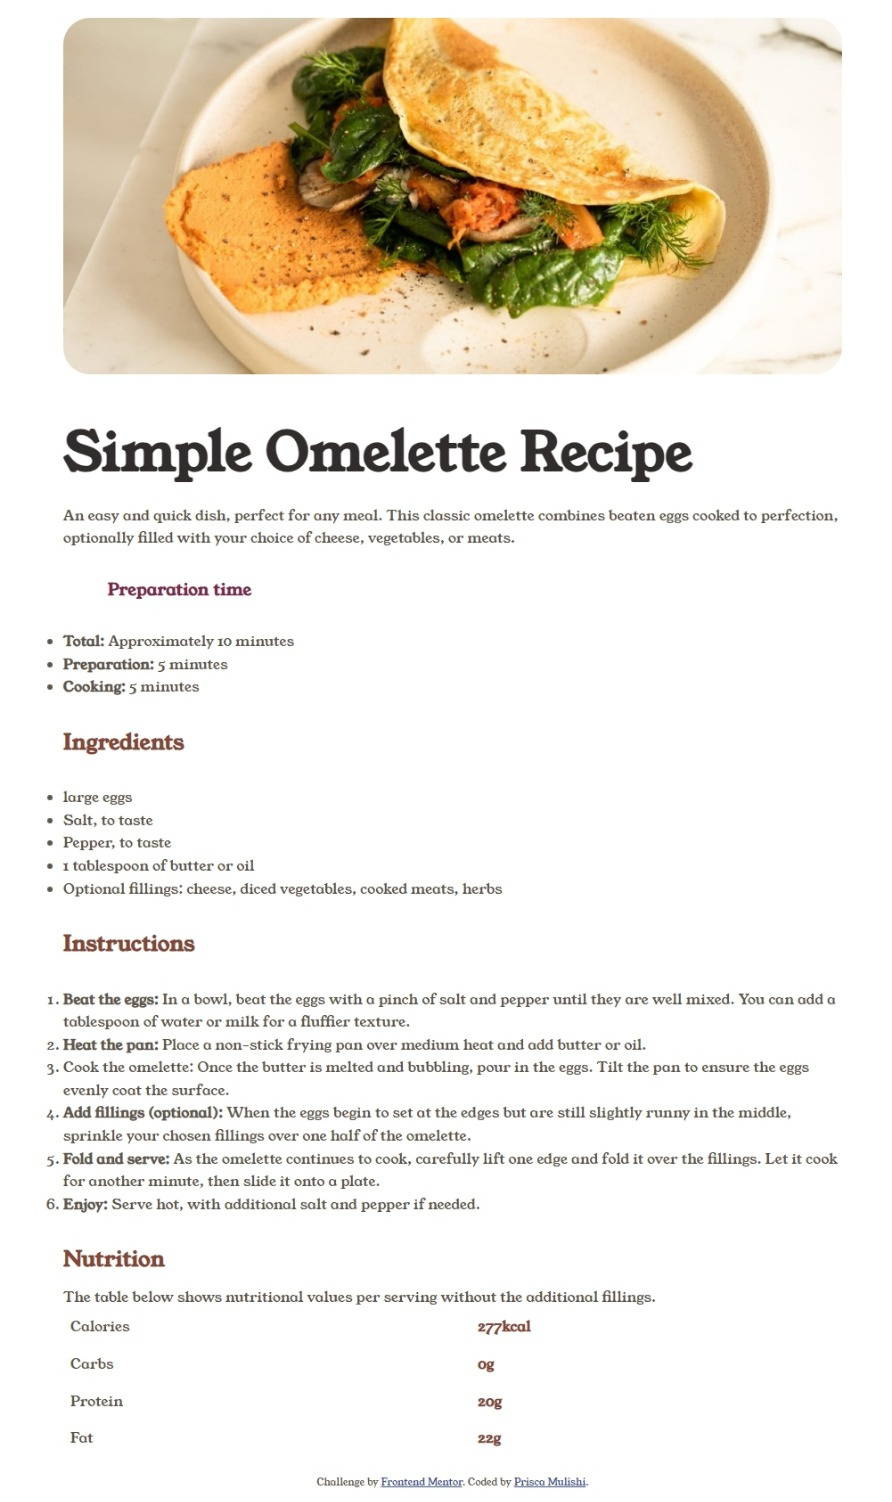
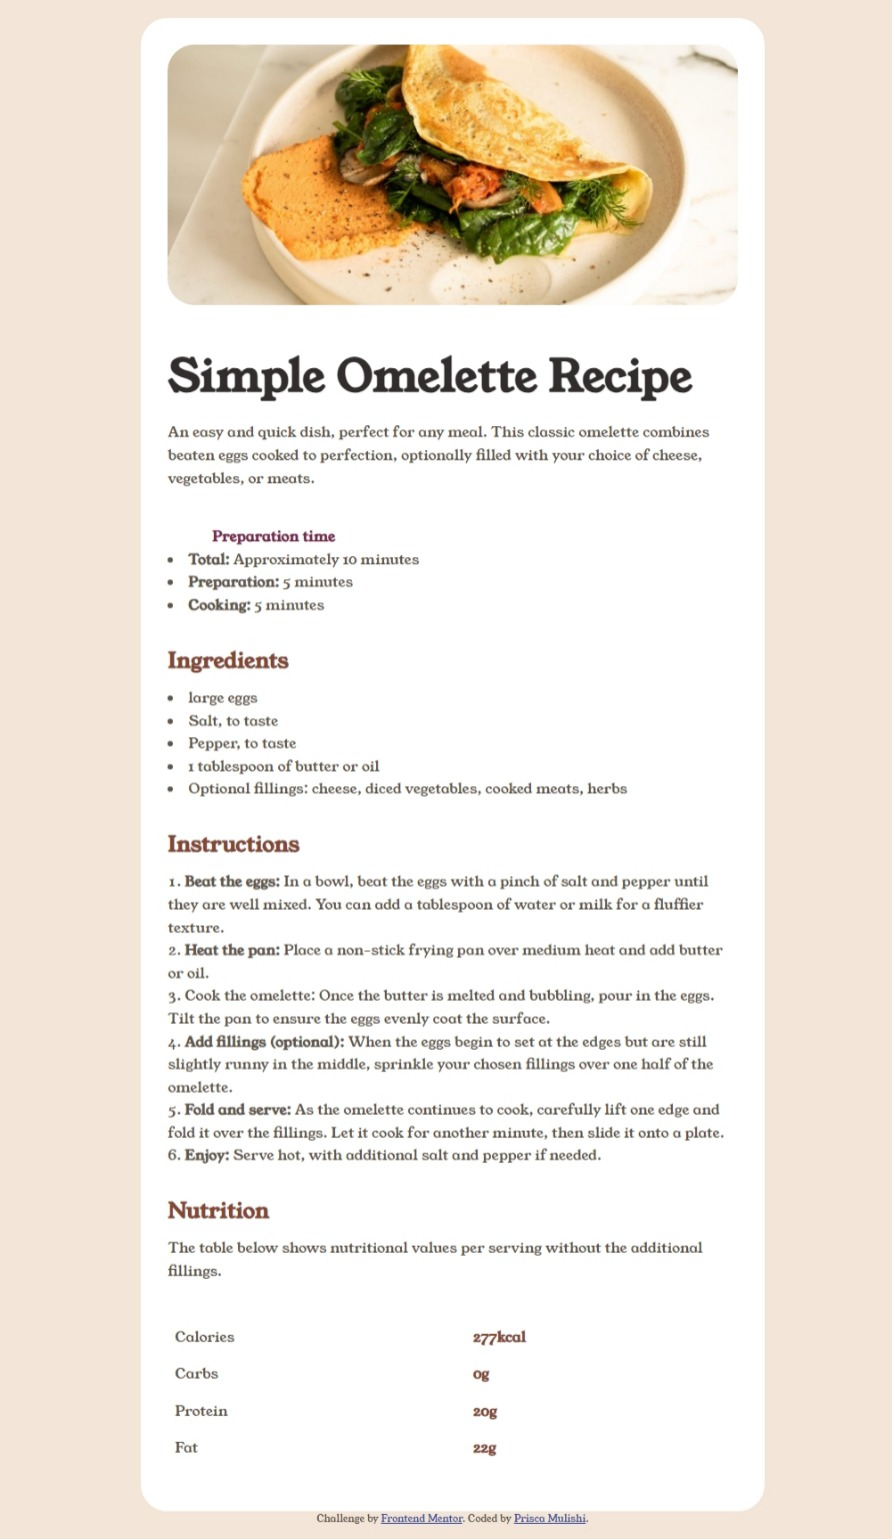
style.css

diff --git a/style.css b/style.css
@@ -13,6 +13,15 @@ body {
   max-width: 90%;
   margin: 0 auto;
   padding: 20px;
+  background-color: hsl(30, 54%, 90%);
+}
+
+main {
+  max-width: 80%; 
+  margin: 0 auto; 
+  background-color: hsl(0, 0%, 100%);
+  padding: 30px;
+  border-radius: 30px;
 }
 
 img {
@@ -29,7 +38,7 @@ img {
 }
 
 h1 {
-  font-size: 60px;
+  font-size: 50px;
   margin-top: 40px;
   margin-bottom: 10px;
   color: hsl(24, 5%, 18%);
@@ -41,24 +50,23 @@ h2 {
   color: hsl(14, 45%, 36%);
 }
 
-h3 {
-  margin-top: 30px;
-  margin-bottom: 10px;
-  color: hsl(332, 51%, 32%);
-}
-
 .indented-list {
   padding-left: 50px;
+  color: hsl(332, 51%, 32%);
+  font-weight: bold;
+
 }
 
 ul, ol {
   font-size: 16px;
   margin-bottom: 30px;
-  margin-top: 30px;
+  margin-top: 0px;
+  list-style-position: inside;
 }
 
 p {
   font-size: 16px; 
+  margin-bottom: 40px;
 }
 
 table {

diff --git a/index.html b/index.html
@@ -36,7 +36,7 @@
     </p>
 
 
-    <h3 class="indented-list">Preparation time</h3>
+    <span class="indented-list">Preparation time</span>
 
     <ul>
       <li><b>Total:</b> Approximately 10 minutes</li>
